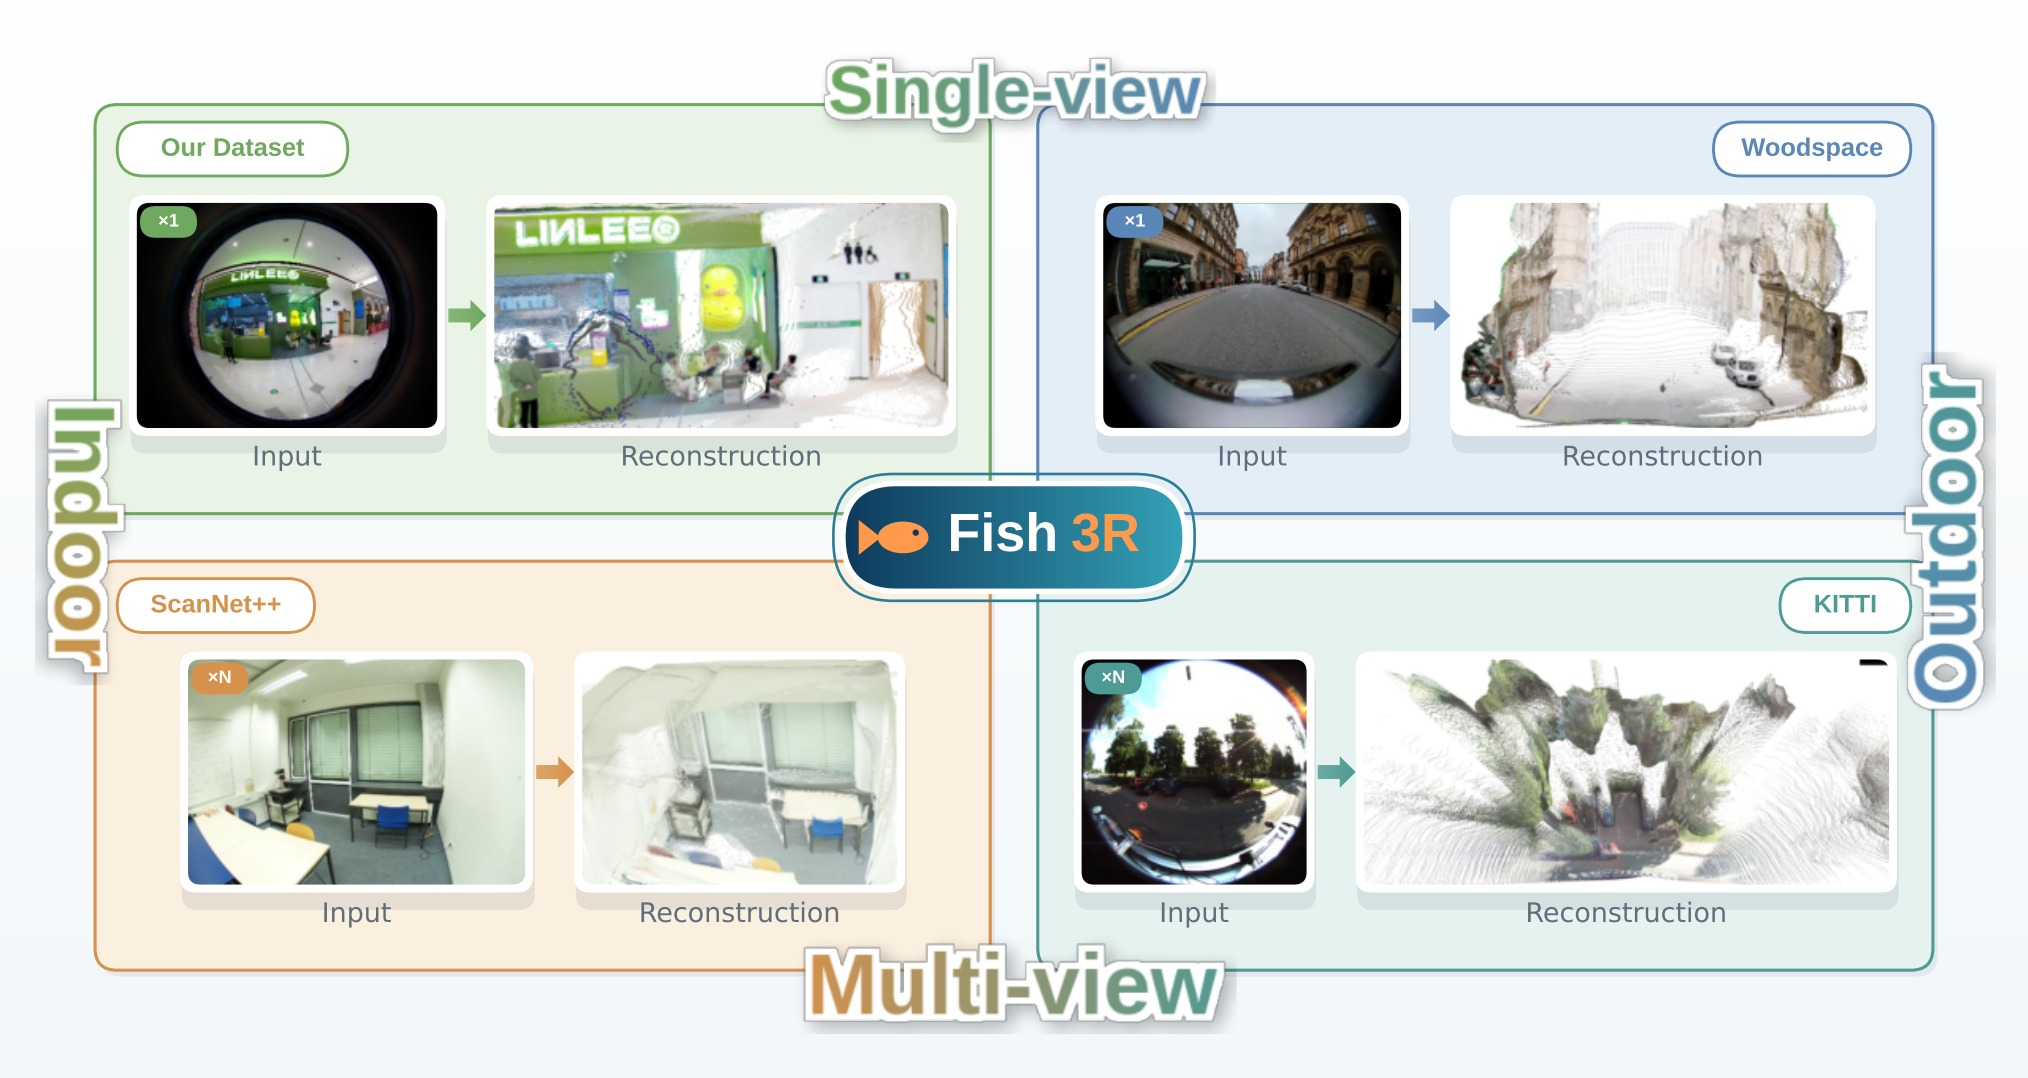
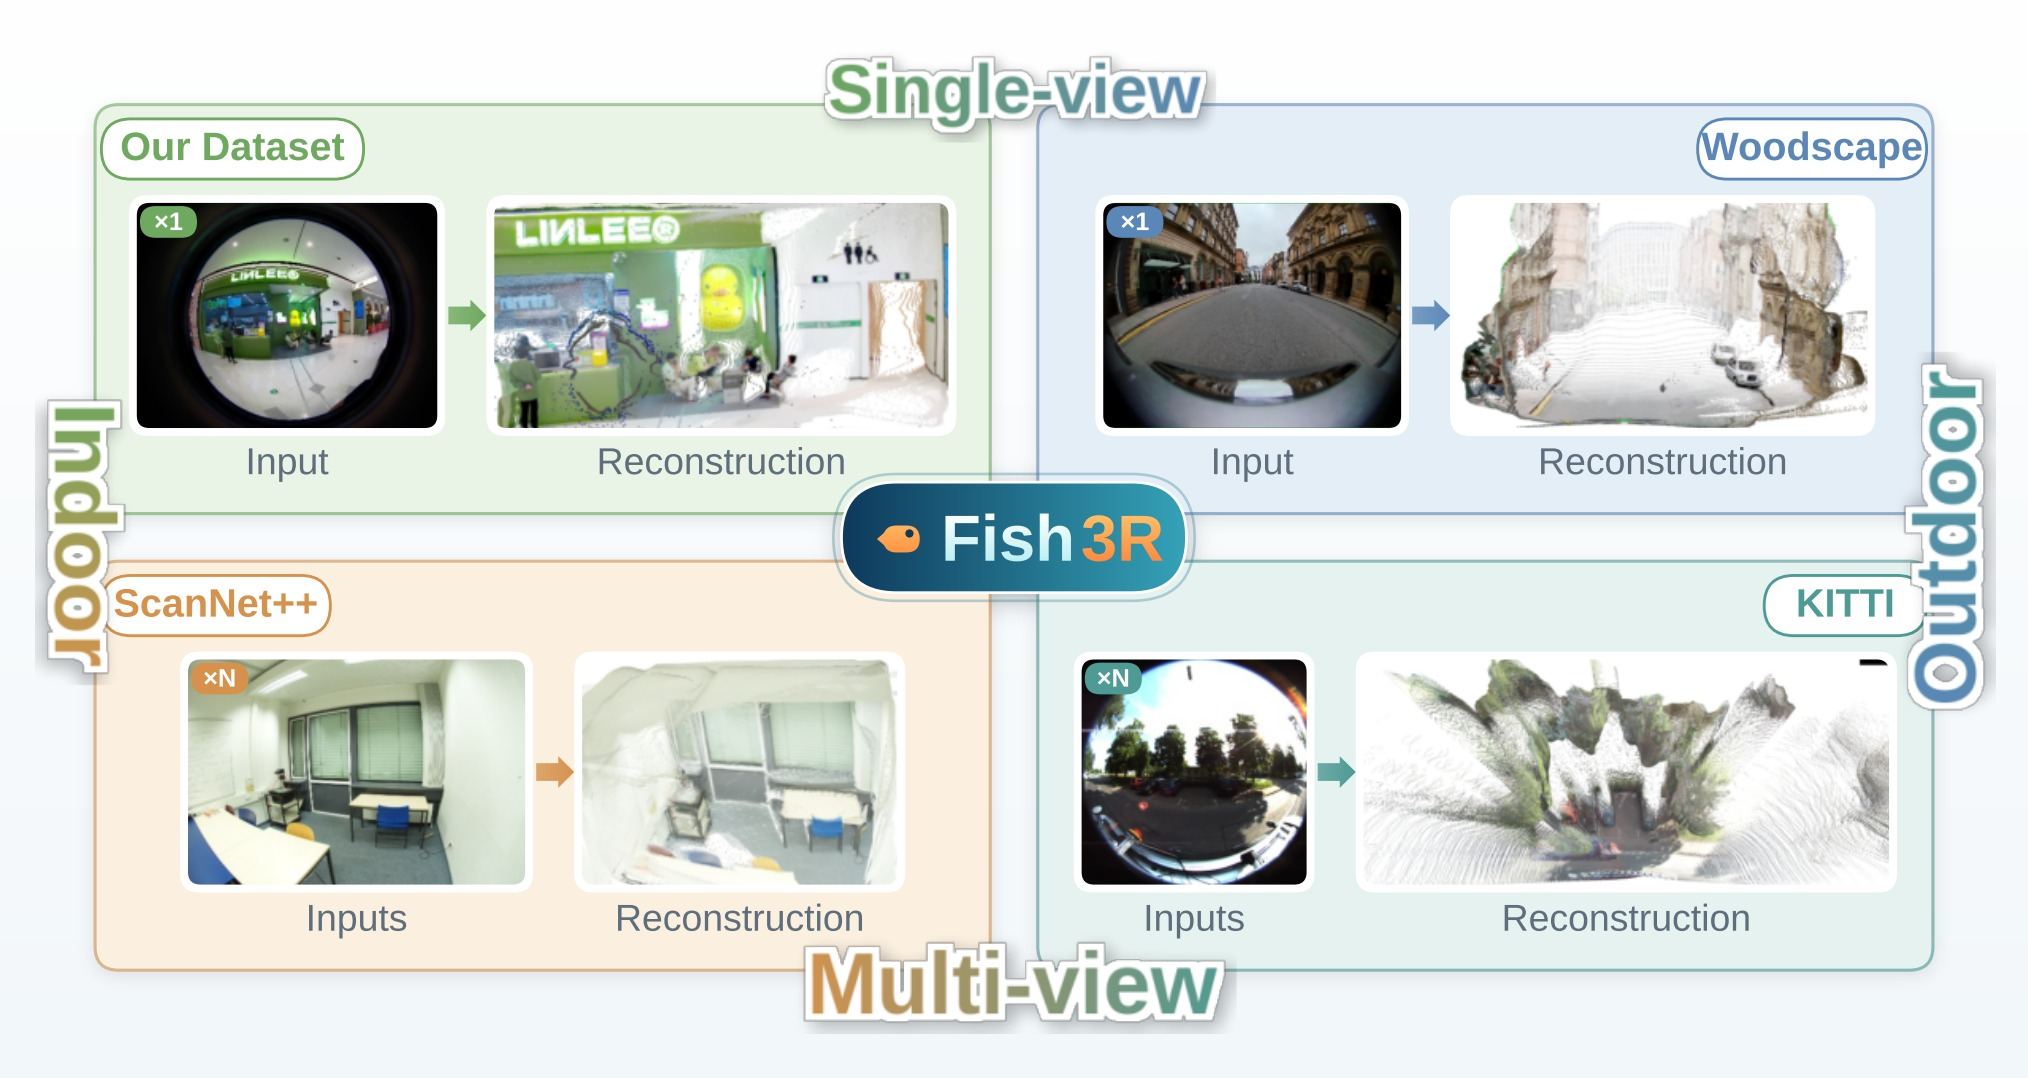
Fix dataset labels (KITTI-360, WoodScape), update teaser figure

diff --git a/assets/js/main.js b/assets/js/main.js
@@ -90,13 +90,13 @@
     var track = document.getElementById("marquee-track");
     if (!track) return;
     var shots = [
-      { src: "assets/images/fisheye-kitti.jpg",     label: "KITTI · driving" },
+      { src: "assets/images/fisheye-kitti.jpg",     label: "KITTI-360 · street" },
       { src: "assets/images/fisheye-kitti360.jpg",  label: "KITTI-360 · driving" },
       { src: "assets/images/fisheye-mall.jpg",      label: "Ours · indoor" },
       { src: "assets/images/fisheye-scannet.jpg",   label: "ScanNet++ · indoor" },
       { src: "assets/images/fisheye-scannet2.jpg",  label: "ScanNet++ · room" },
       { src: "assets/images/fisheye-street.jpg",    label: "Ours · street" },
-      { src: "assets/images/fisheye-woodspace.jpg", label: "WoodSpace · urban" }
+      { src: "assets/images/fisheye-woodspace.jpg", label: "WoodScape · urban" }
     ];
     var setHtml = shots.map(function (s) {
       return '<figure class="feye"><img src="' + s.src + '" alt="' + s.label + '" loading="lazy"><figcaption>' + s.label + "</figcaption></figure>";
